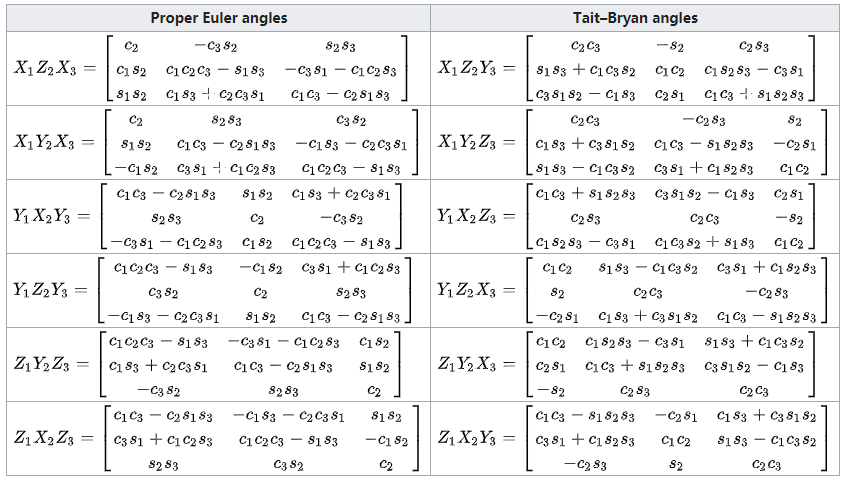
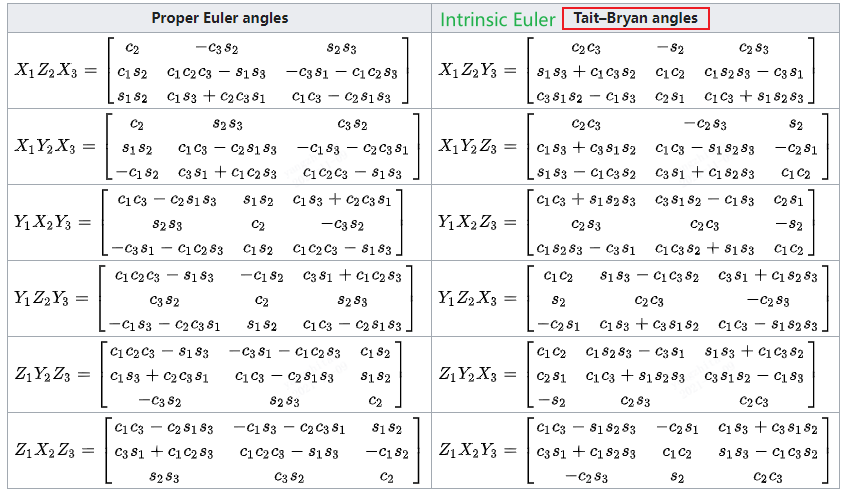
update

Changed region(s): [[0.0, 0.0, 1.0, 1.0]]

diff --git a/docs/ABC/图形/旋转的不同表示方式.md b/docs/ABC/图形/旋转的不同表示方式.md
@@ -139,13 +139,19 @@ $$
 
 > [Euler angles - Wikipedia](https://en.wikipedia.org/wiki/Euler_angles)
 
-以外旋方式按如下旋转顺序旋转对应的旋转矩阵为：
+内旋欧拉角转换为旋转矩阵如下：
 
-![image-20210513191614470](assets/euler_angles_to_rotation_matrix.png)
+（如是外旋欧拉角，则 $X_1Y_2Z_3 \to z_3y_2x_1$, $s_1 \to s_3$ ）
+
+![euler_angles_to_rotation_matrix](assets/euler_angles_to_rotation_matrix.png)
 
 ## 三. 旋转矩阵
 
 ### 1. 旋转矩阵转欧拉角
+
+旋转矩阵转内旋欧拉角如下：
+
+![rotation_matrix_to_euler_angles](assets/rotation_matrix_to_euler_angles.png)
 
 ## 四. 四元数
 
